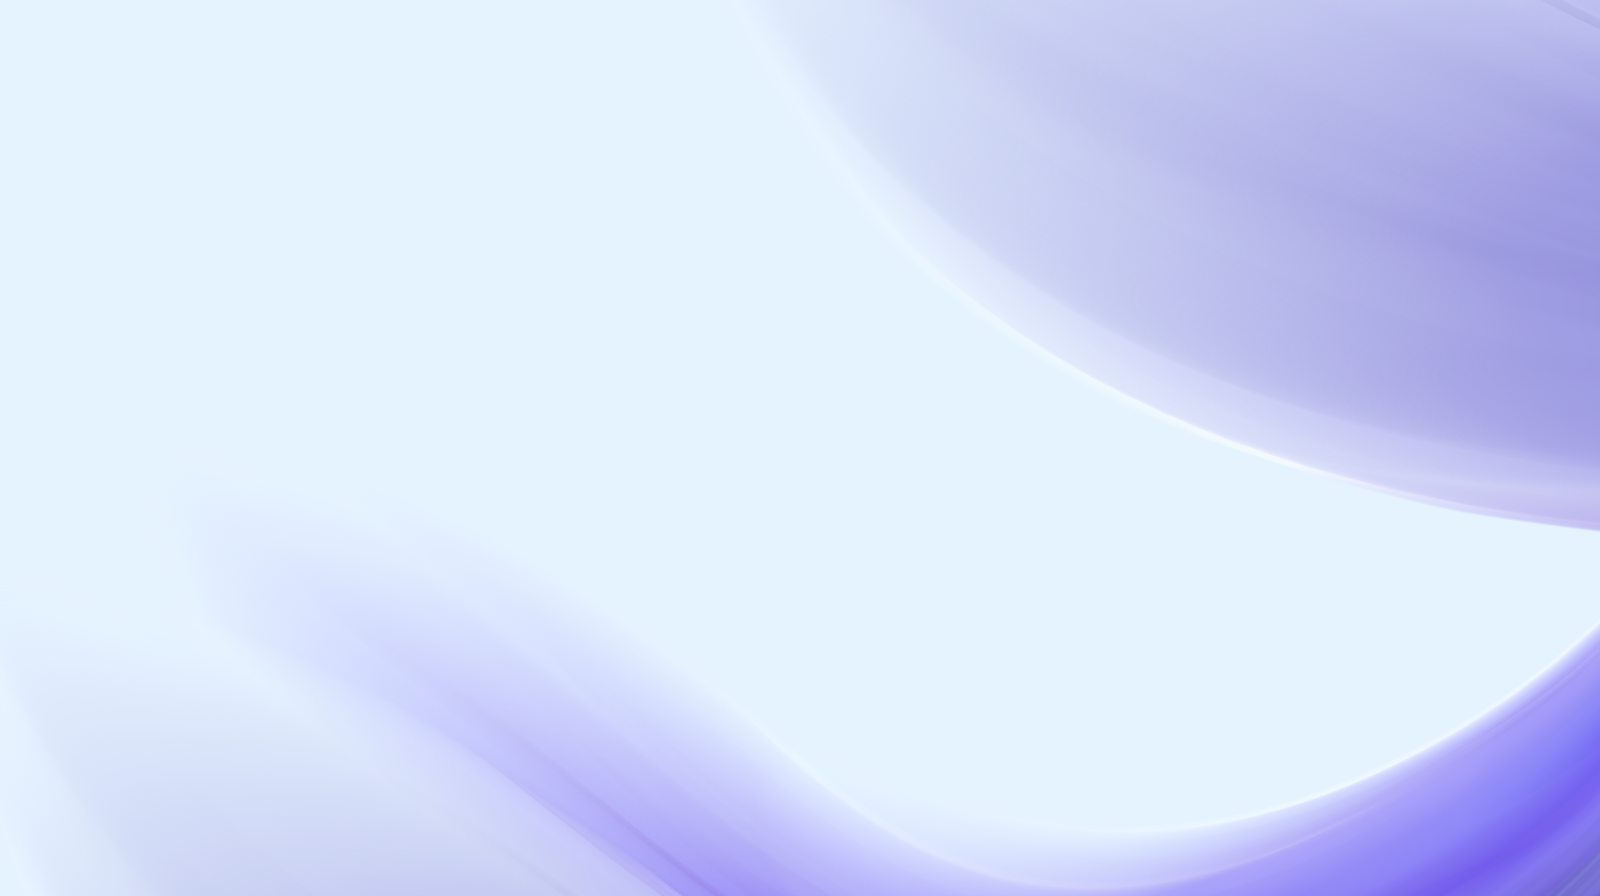
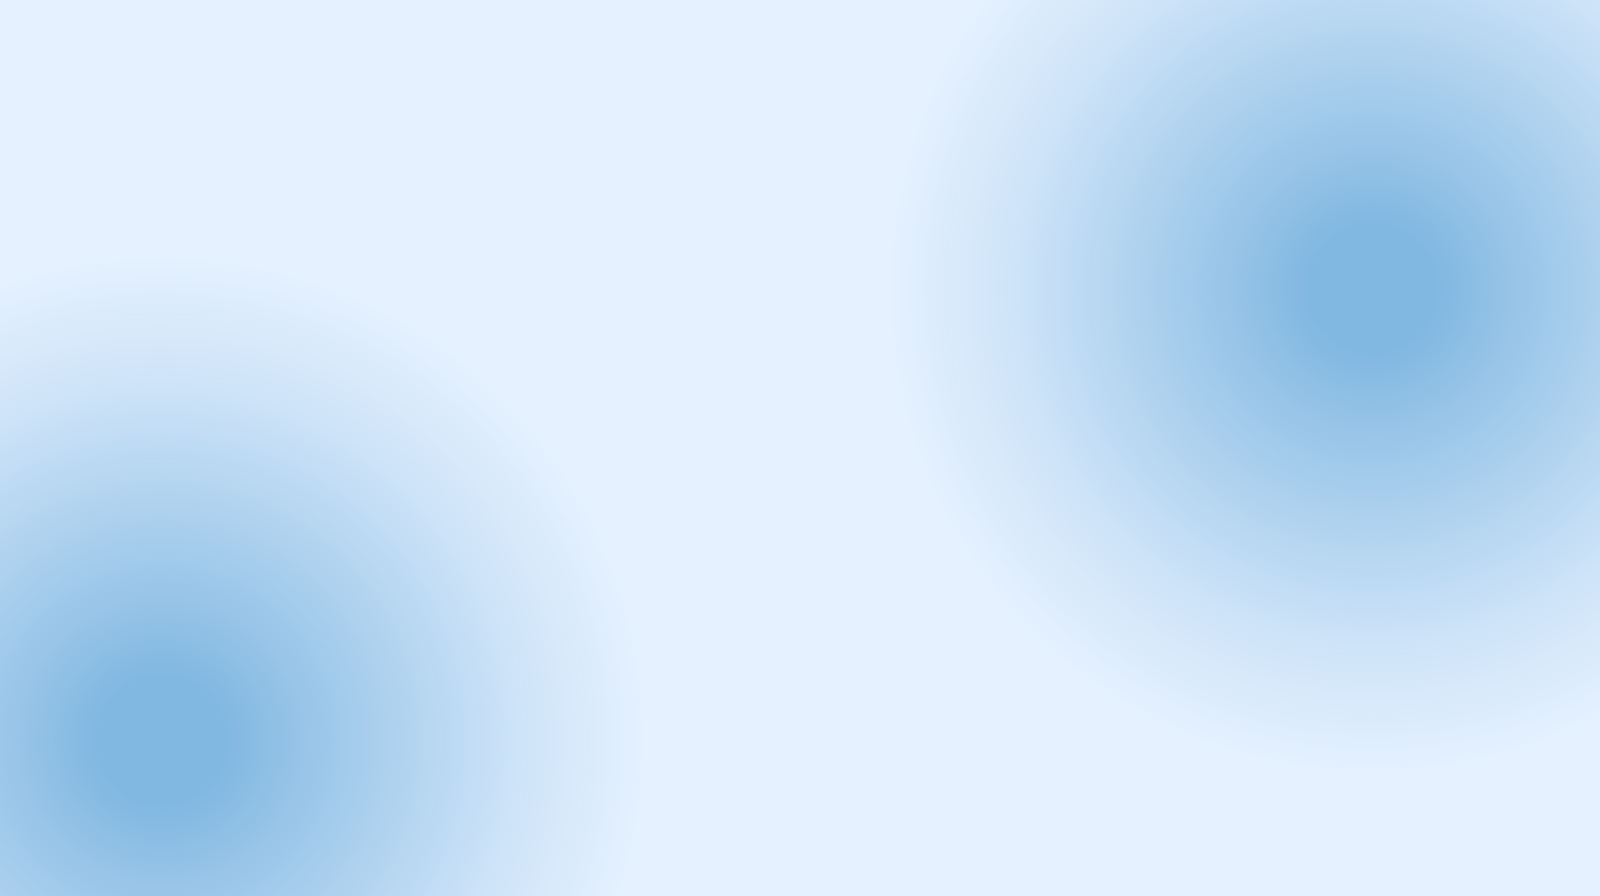
bg-changes

diff --git a/components/pages/main-services/managed-services/index.jsx b/components/pages/main-services/managed-services/index.jsx
@@ -1,8 +1,6 @@
 "use client";
 import HeaderFour from "@/components/layout/headers/header/header-four";
 import HeroWithRibbon from "@/components/data/services/StickyRibbon1";
-import SoftwareSolutionsSection from "@/components/data/services/SoftwareSolutionsSection";
-import HeroSideBySide from "@/components/data/services/HeroSideBySide";
 import BulletPoints from "@/components/data/services/bulletpoints";
 import ServiceFeatureCards from "@/components/data/services/ServiceFeatureCards";
 import PricingCardsSection from "@/components/data/services/PricingCardsSection";
@@ -30,7 +28,7 @@ const PowerBI = () => {
   title="Multi-Cloud Operations, Security, Cost Optimisation & 24/7 Support"
   highlightText="Managed Services"
   subtitle="Novum delivers proactive managed services across Azure, AWS, and Google Cloud including DevOps, security operations, cost optimisation, infrastructure management, database services, and modern application support."
-  bgImage="/assets/img/professional-services/bg-managed.avif"
+  bgImage="/assets/img/professional-services/bg-managed.png"
   // heroImage="/assets/img/managed-services/managed-hero.webp"
   heroButtons={[
     { label: "Contact Us", href: "/contact" },
